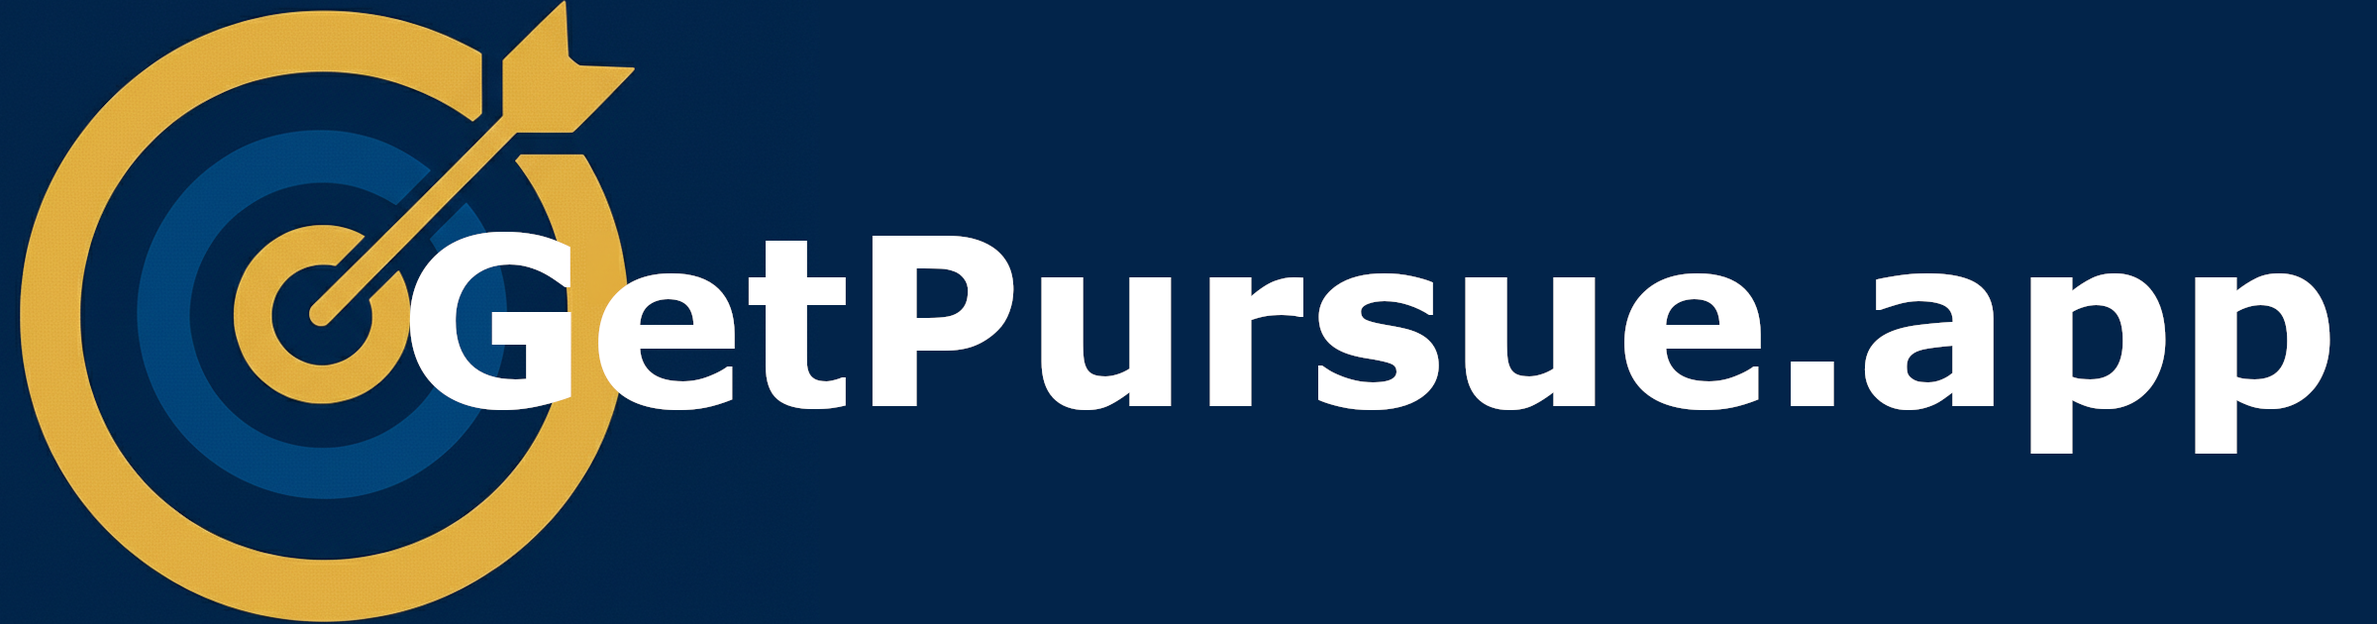
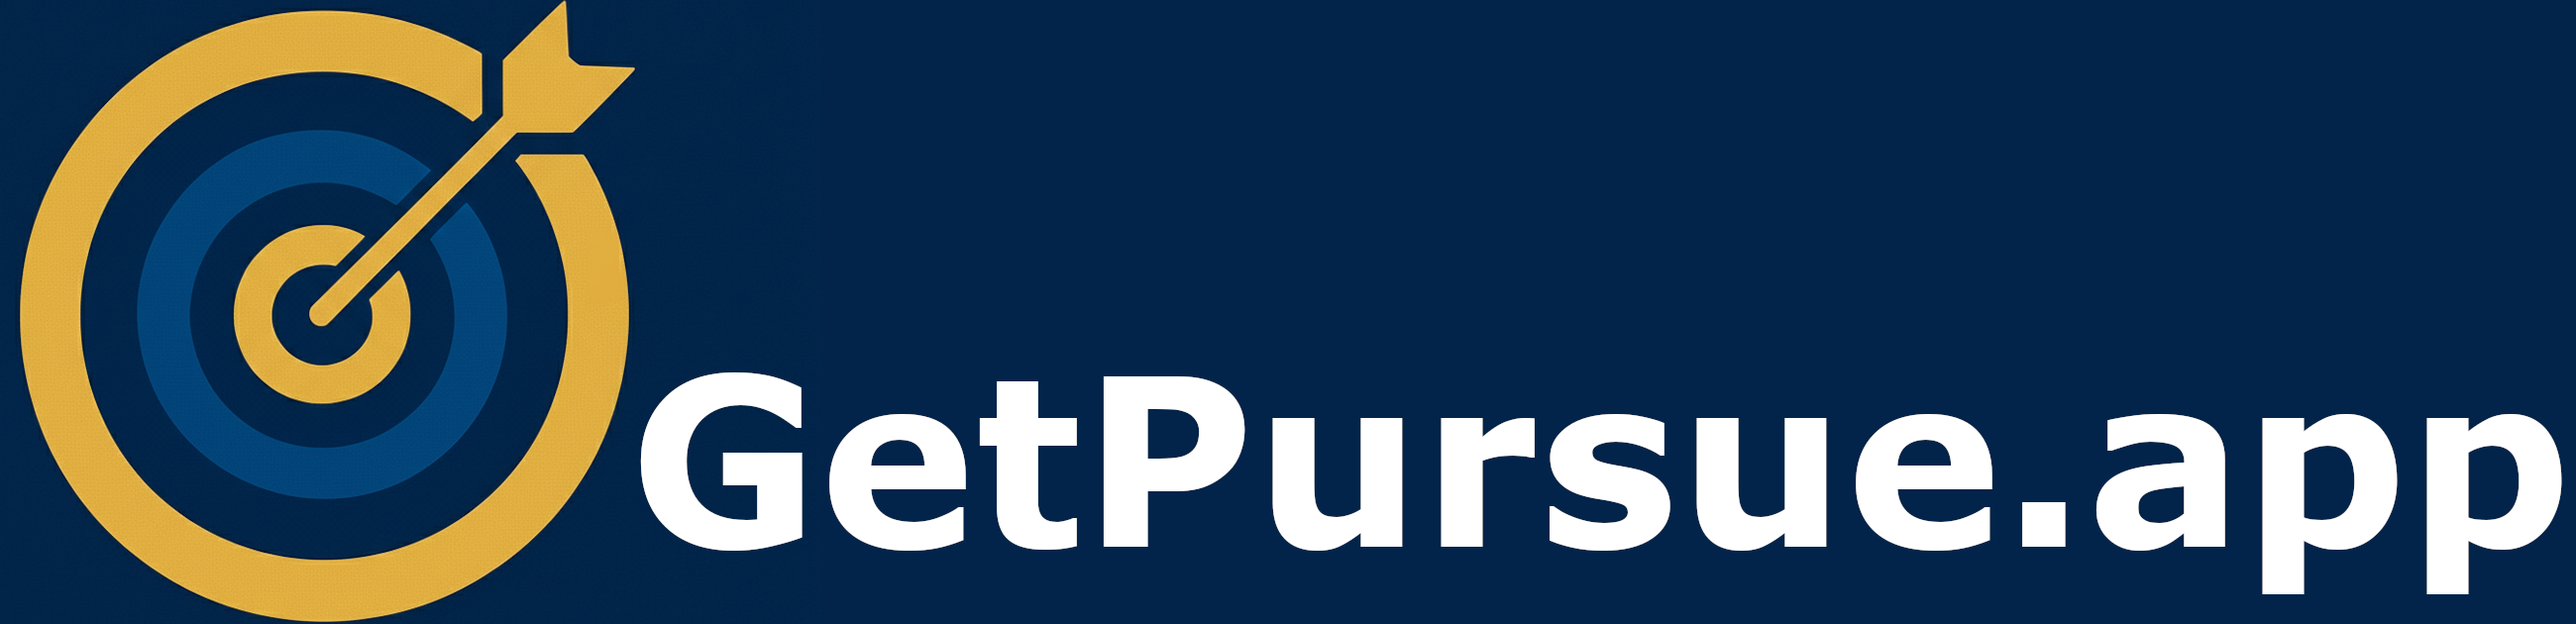
Update letterhead with non-overlapping text

Changed region(s): [[0.0312, 0.0, 1.0, 1.0], [0.0625, 0.0, 0.1562, 0.0905], [0.0625, 0.9048, 0.0938, 0.9651]]

diff --git a/pursue-server/src/services/exportProgress.service.ts b/pursue-server/src/services/exportProgress.service.ts
@@ -257,9 +257,9 @@ export function calculateMonthlyStats(
 
 // --- Letterhead ---
 
-// Letterhead source is 2400×630; scale to fit width while preserving aspect ratio
+// Letterhead source is 2600×630; scale to fit width while preserving aspect ratio
 const LETTERHEAD_IMAGE_WIDTH = 480;
-const LETTERHEAD_IMAGE_HEIGHT = Math.round(480 * (630 / 2400)); // 126
+const LETTERHEAD_IMAGE_HEIGHT = Math.round(480 * (630 / 2600)); // 126
 const LETTERHEAD_ROW_HEIGHT = 95; // points, to fit image height
 const PURSUE_URL = 'https://getpursue.app';
 
